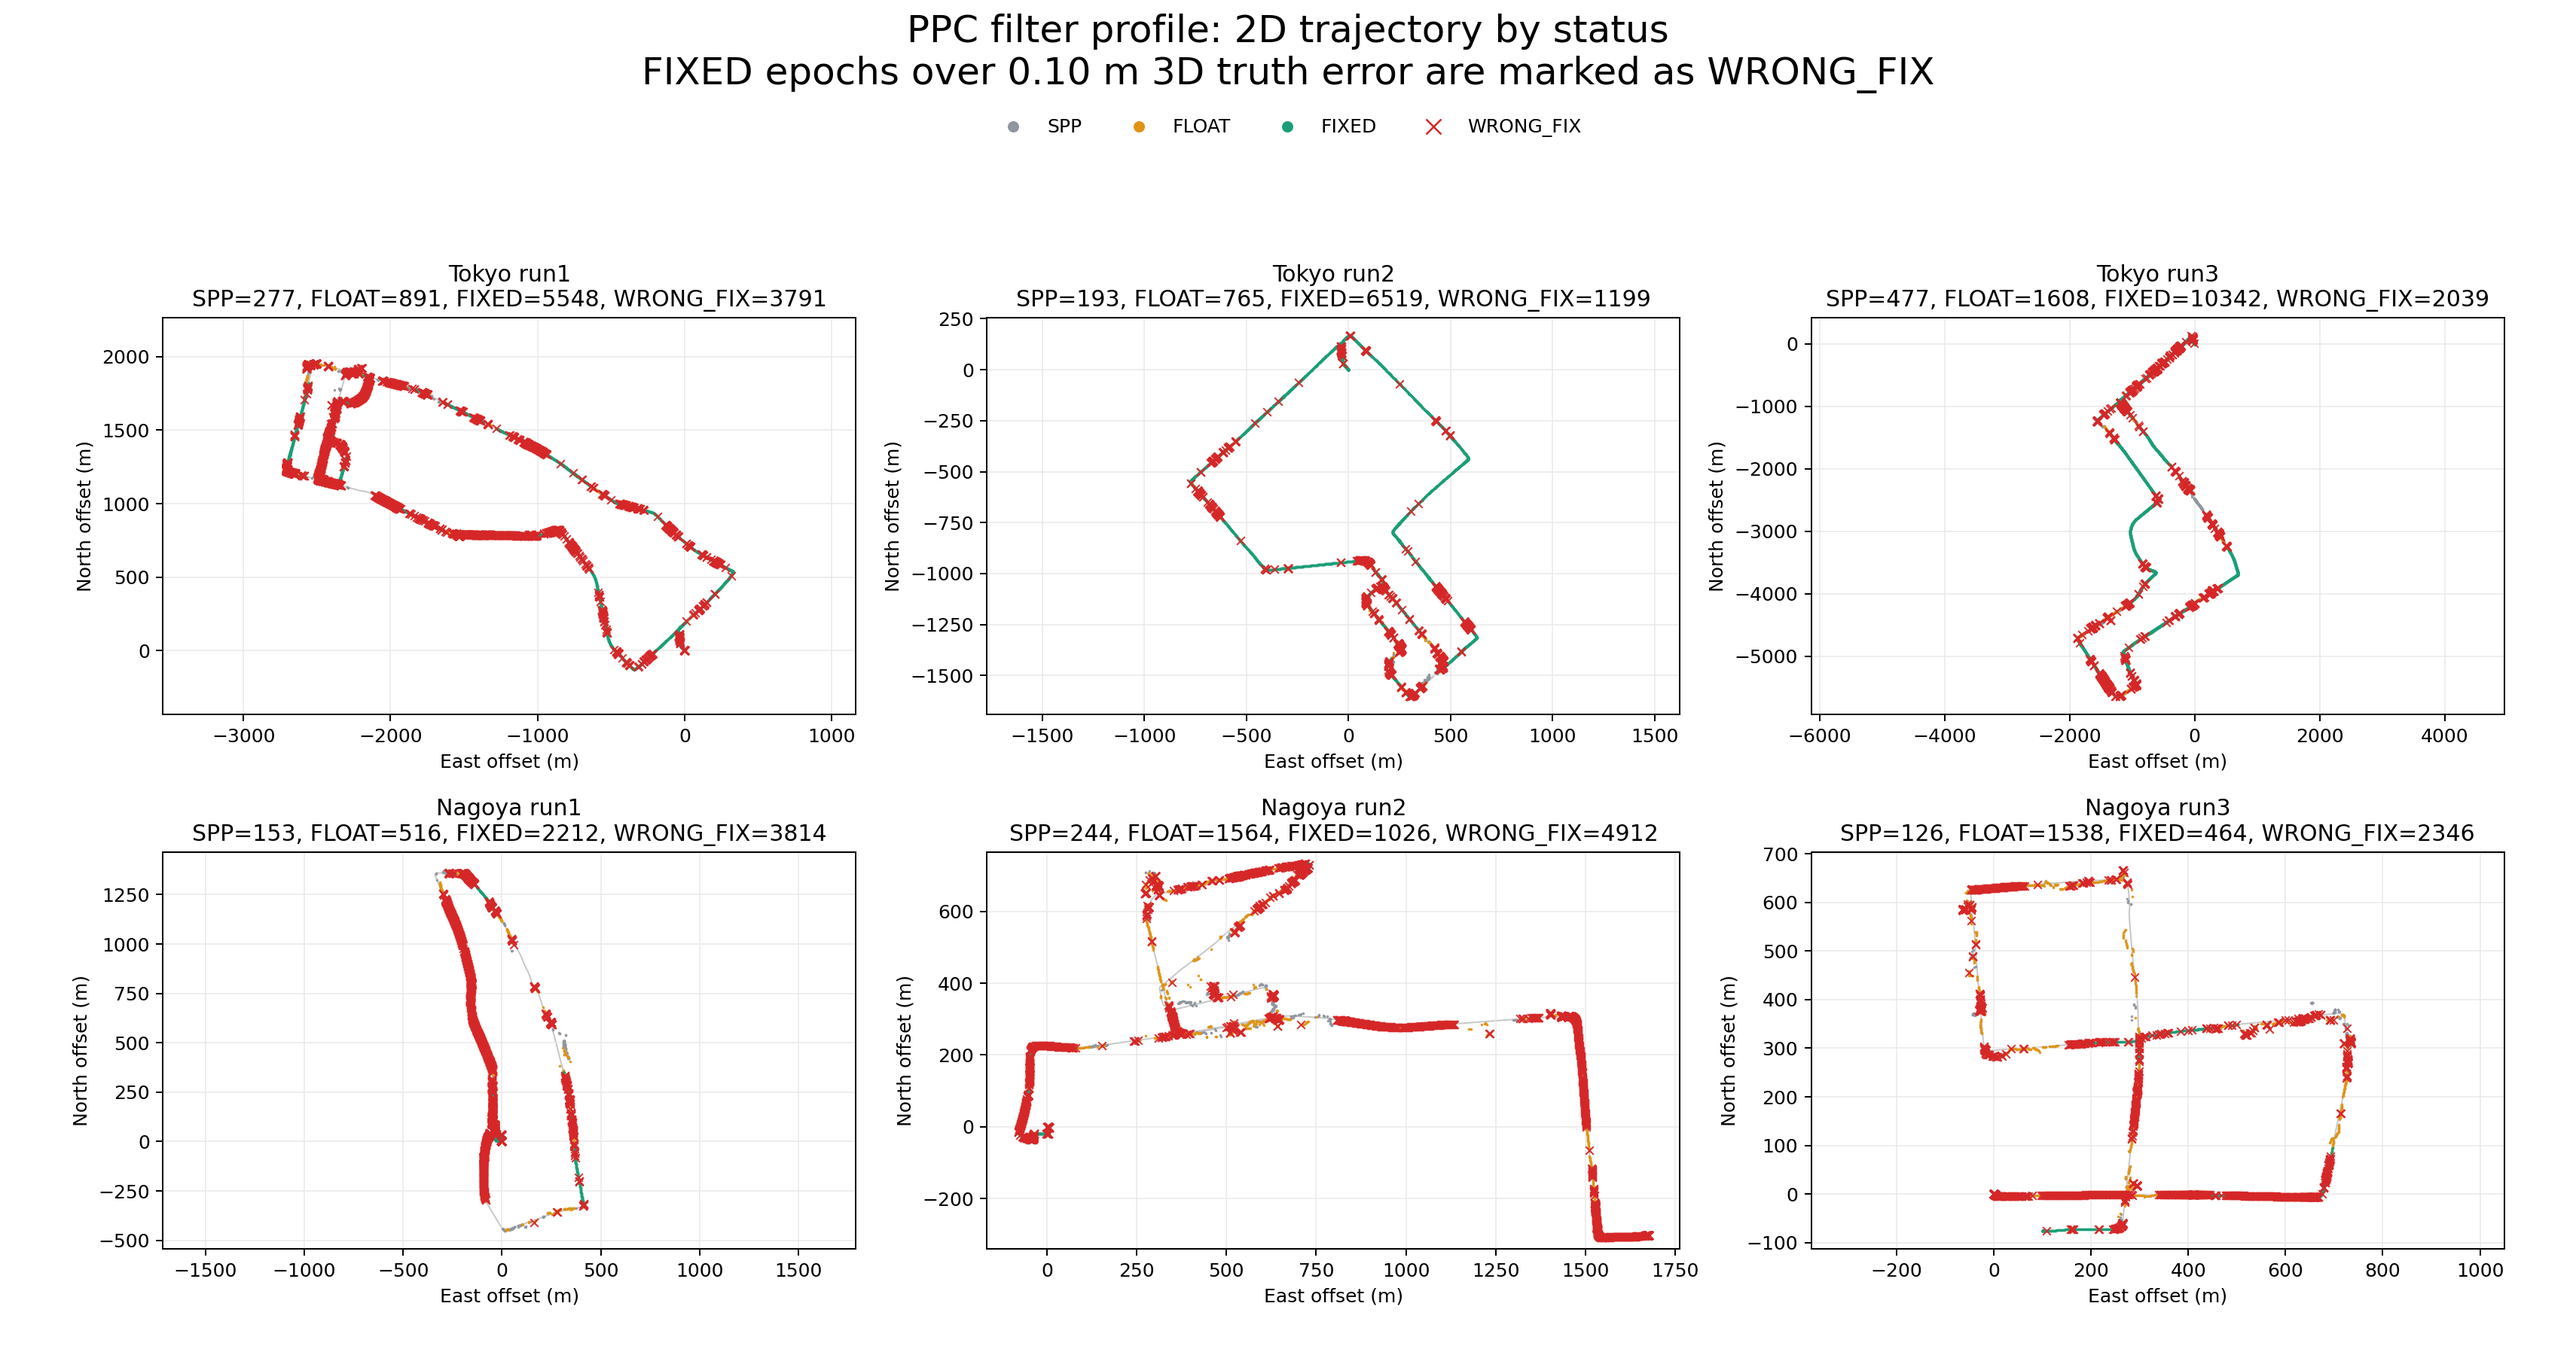
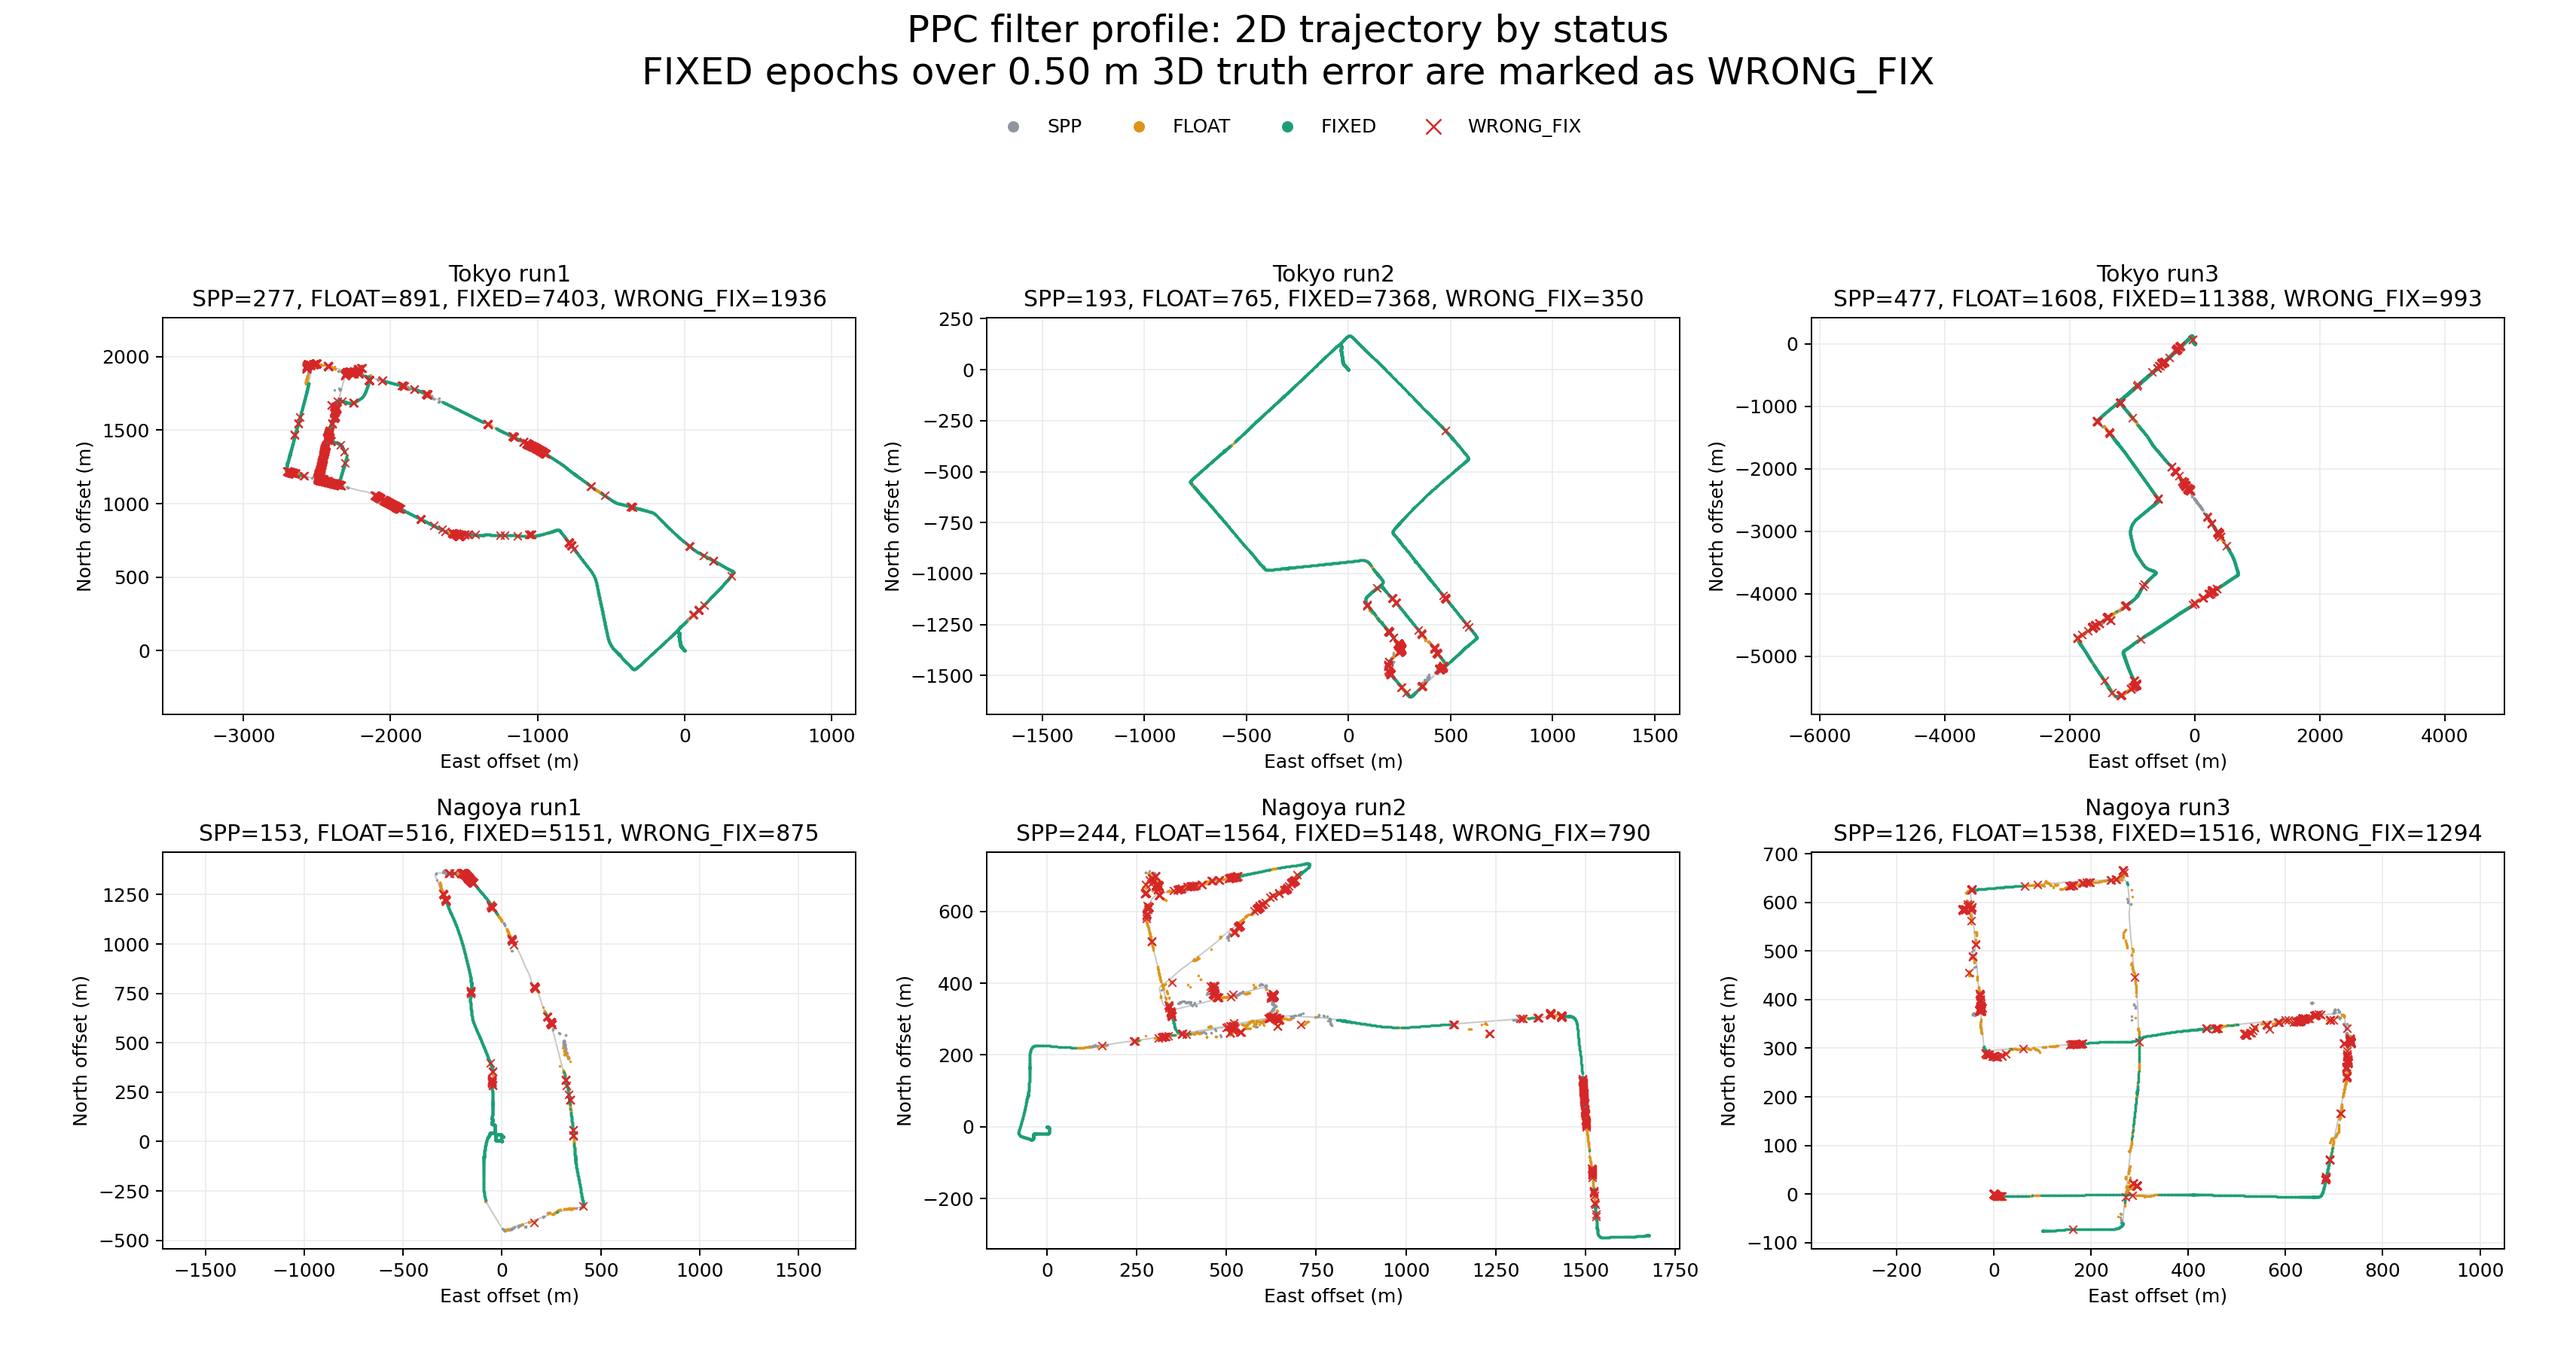
Use PPC wrong-fix threshold in trajectory plots

diff --git a/scripts/plot_ppc_status_trajectories.py b/scripts/plot_ppc_status_trajectories.py
@@ -59,7 +59,7 @@ def parse_args() -> argparse.Namespace:
     parser.add_argument(
         "--wrong-fix-threshold-m",
         type=float,
-        default=0.10,
+        default=0.50,
         help="Classify status=FIXED epochs above this 3D truth error as WRONG_FIX.",
     )
     return parser.parse_args()

diff --git a/docs/ppc_smoother_oracle_report.md b/docs/ppc_smoother_oracle_report.md
@@ -67,7 +67,7 @@ of chasing extra fixed epochs. In practice:
 The trajectory plots are useful for reviewing where bridges, gaps, and mis-fixes
 appear, but they are not performance evidence by themselves. Red `WRONG_FIX`
 points are `FIXED` solution epochs whose post-run 3D reference error exceeds
-0.10 m.
+0.50 m.
 
 ![PPC filter 2D trajectory colored by GNSS status and wrong FIX](ppc_filter_status_trajectories.png)
 
